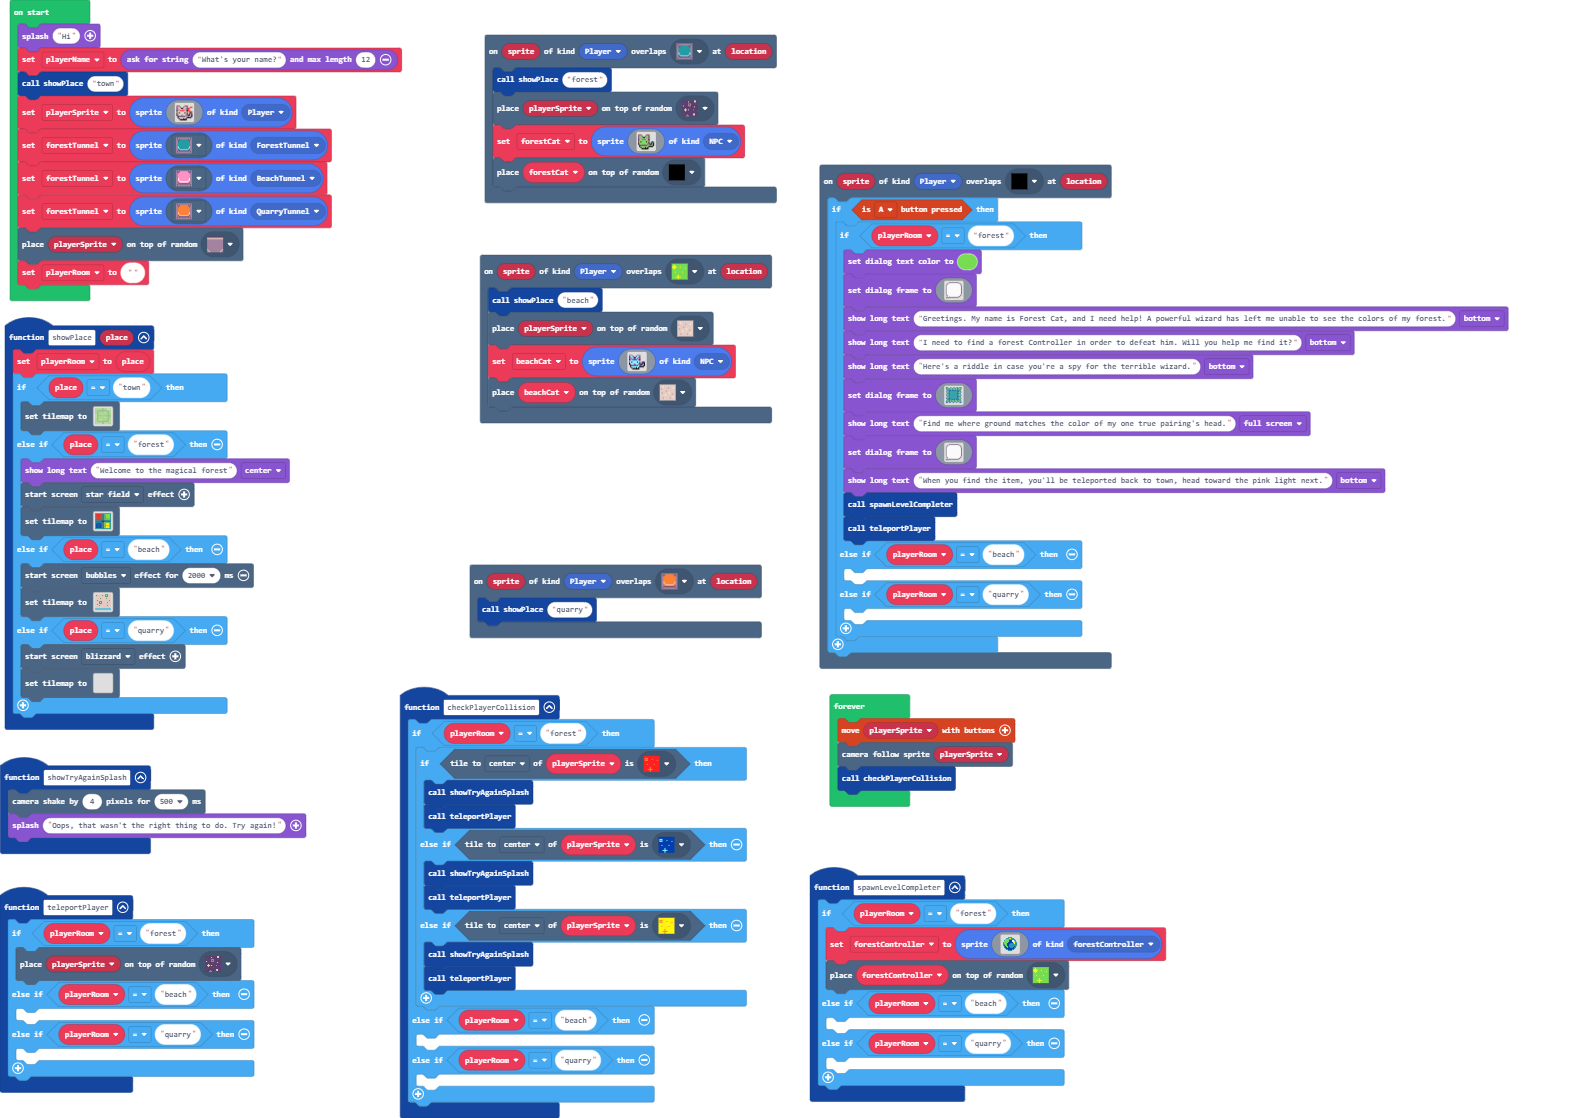
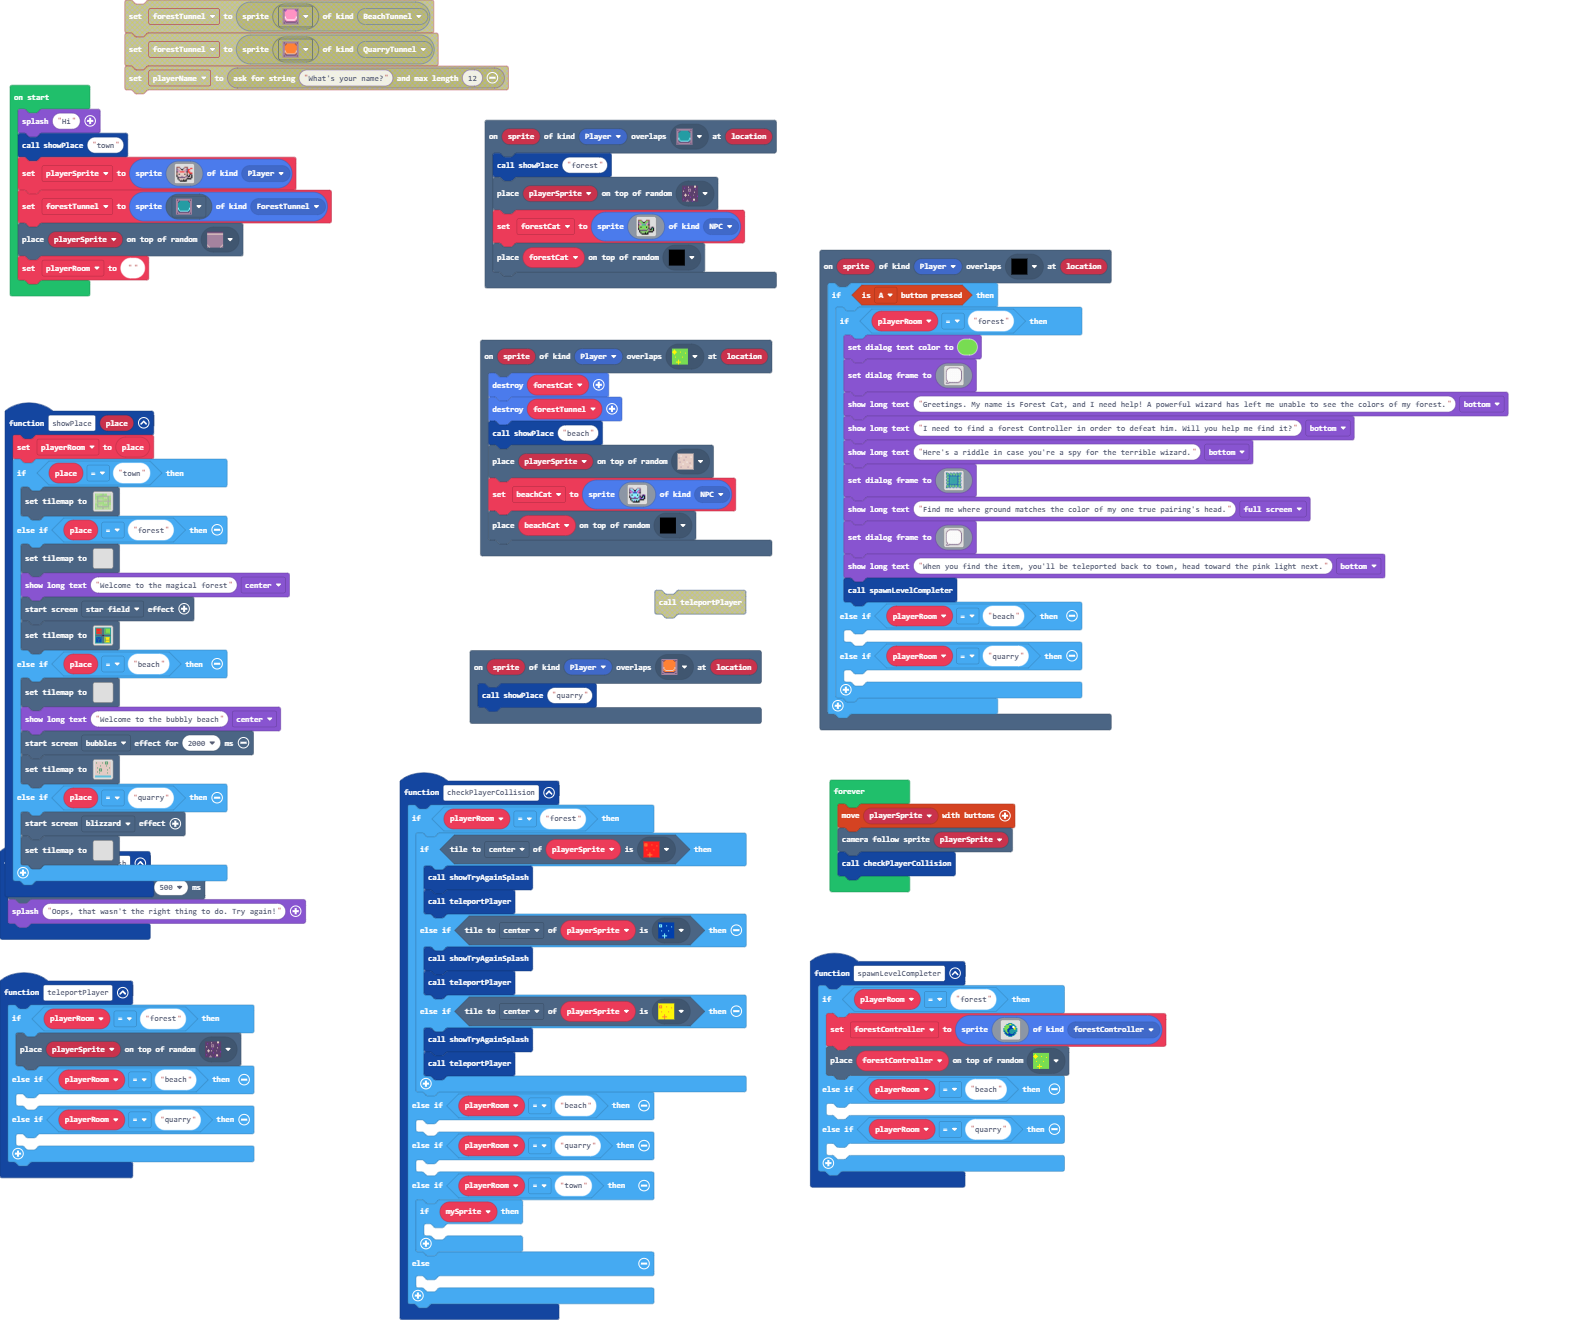
Took out name req, tried to clear beach before loading scene, still a bug there...

diff --git a/main.ts b/main.ts
@@ -102,7 +102,6 @@ scene.onOverlapTile(SpriteKind.Player, myTiles.tile2, function (sprite, location
                 `)
             game.showLongText("When you find the item, you'll be teleported back to town, head toward the pink light next.", DialogLayout.Bottom)
             spawnLevelCompleter()
-            teleportPlayer()
         } else if (playerRoom == "beach") {
         	
         } else if (playerRoom == "quarry") {
@@ -153,9 +152,18 @@ function checkPlayerCollision () {
     	
     } else if (playerRoom == "quarry") {
     	
+    } else if (playerRoom == "town") {
+        let mySprite = 0
+        if (mySprite) {
+        	
+        }
+    } else {
+    	
     }
 }
 scene.onOverlapTile(SpriteKind.Player, myTiles.tile9, function (sprite, location) {
+    forestCat.destroy()
+    forestTunnel.destroy()
     showPlace("beach")
     tiles.placeOnRandomTile(playerSprite, myTiles.tile10)
     beachCat = sprites.create(img`
@@ -174,7 +182,7 @@ scene.onOverlapTile(SpriteKind.Player, myTiles.tile9, function (sprite, location
         . . f 9 a 9 f 9 f . . . . . 
         . . . f f f f f f . . . . . 
         `, SpriteKind.NPC)
-    tiles.placeOnRandomTile(beachCat, myTiles.tile10)
+    tiles.placeOnRandomTile(beachCat, myTiles.tile2)
 })
 scene.onOverlapTile(SpriteKind.Player, sprites.dungeon.buttonTealDepressed, function (sprite, location) {
     showPlace("forest")
@@ -267,6 +275,24 @@ function showPlace (place: string) {
             ................................................
             `, [myTiles.transparency16,sprites.castle.tileGrass1,sprites.castle.tileGrass3,sprites.castle.tileGrass2,sprites.vehicle.roadIntersection3,sprites.vehicle.roadIntersection1,sprites.vehicle.roadTurn1,sprites.vehicle.roadIntersection2,sprites.vehicle.roadIntersection4,sprites.vehicle.roadTurn4,sprites.vehicle.roadTurn3,sprites.dungeon.buttonTealDepressed,sprites.dungeon.buttonPink,sprites.vehicle.roadTurn2,sprites.castle.shrub,sprites.castle.rock2,sprites.castle.saplingOak,sprites.builtin.coral1,sprites.castle.tilePath5,sprites.dungeon.buttonOrangeDepressed], TileScale.Sixteen))
     } else if (place == "forest") {
+        tiles.setTilemap(tiles.createTilemap(hex`1000100000000000000000000000000000000000000000000000000000000000000000000000000000000000000000000000000000000000000000000000000000000000000000000000000000000000000000000000000000000000000000000000000000000000000000000000000000000000000000000000000000000000000000000000000000000000000000000000000000000000000000000000000000000000000000000000000000000000000000000000000000000000000000000000000000000000000000000000000000000000000000000000000000000000000000000000000000000000000000000000000000000000000000000000000000000000`, img`
+            . . . . . . . . . . . . . . . . 
+            . . . . . . . . . . . . . . . . 
+            . . . . . . . . . . . . . . . . 
+            . . . . . . . . . . . . . . . . 
+            . . . . . . . . . . . . . . . . 
+            . . . . . . . . . . . . . . . . 
+            . . . . . . . . . . . . . . . . 
+            . . . . . . . . . . . . . . . . 
+            . . . . . . . . . . . . . . . . 
+            . . . . . . . . . . . . . . . . 
+            . . . . . . . . . . . . . . . . 
+            . . . . . . . . . . . . . . . . 
+            . . . . . . . . . . . . . . . . 
+            . . . . . . . . . . . . . . . . 
+            . . . . . . . . . . . . . . . . 
+            . . . . . . . . . . . . . . . . 
+            `, [myTiles.transparency16], TileScale.Sixteen))
         game.showLongText("Welcome to the magical forest", DialogLayout.Center)
         effects.starField.startScreenEffect()
[1 lines of base64/hex data omitted]
@@ -304,6 +330,25 @@ function showPlace (place: string) {
             ..............2..2..............
             `, [myTiles.transparency16,myTiles.tile2,sprites.castle.tileDarkGrass1,myTiles.tile4,sprites.castle.saplingPine,myTiles.tile5,myTiles.tile6,myTiles.tile7,myTiles.tile8,myTiles.tile3,sprites.builtin.forestTiles0,myTiles.tile9], TileScale.Sixteen))
     } else if (place == "beach") {
+        tiles.setTilemap(tiles.createTilemap(hex`1000100000000000000000000000000000000000000000000000000000000000000000000000000000000000000000000000000000000000000000000000000000000000000000000000000000000000000000000000000000000000000000000000000000000000000000000000000000000000000000000000000000000000000000000000000000000000000000000000000000000000000000000000000000000000000000000000000000000000000000000000000000000000000000000000000000000000000000000000000000000000000000000000000000000000000000000000000000000000000000000000000000000000000000000000000000000000`, img`
+            . . . . . . . . . . . . . . . . 
+            . . . . . . . . . . . . . . . . 
+            . . . . . . . . . . . . . . . . 
+            . . . . . . . . . . . . . . . . 
+            . . . . . . . . . . . . . . . . 
+            . . . . . . . . . . . . . . . . 
+            . . . . . . . . . . . . . . . . 
+            . . . . . . . . . . . . . . . . 
+            . . . . . . . . . . . . . . . . 
+            . . . . . . . . . . . . . . . . 
+            . . . . . . . . . . . . . . . . 
+            . . . . . . . . . . . . . . . . 
+            . . . . . . . . . . . . . . . . 
+            . . . . . . . . . . . . . . . . 
+            . . . . . . . . . . . . . . . . 
+            . . . . . . . . . . . . . . . . 
+            `, [myTiles.transparency16], TileScale.Sixteen))
+        game.showLongText("Welcome to the bubbly beach", DialogLayout.Center)
         effects.bubbles.startScreenEffect(2000)
         tiles.setTilemap(tiles.createTilemap(hex`1000100001010101010101010101030303010101010301010101010301010301030101010101010101010101010103030301010101010101010101010101010101010101010101010103010101010103010101010101010101010101010101010101010101010301010101010101010101010301010101010303030101010101010101010101010103010301010101010301010101010101030303010101010101010101010103010101010101010101010101010101010103010101010101010301010101010101010101010101010101010101010101010101010101010101010101010202020202020202020202020202020202020202020202020202020202020202`, img`
             . . . . . . . . . . . . . . . . 
@@ -345,13 +390,13 @@ function showPlace (place: string) {
             `, [myTiles.transparency16], TileScale.Sixteen))
     }
 }
-let forestCat: Sprite = null
 let beachCat: Sprite = null
+let forestCat: Sprite = null
 let forestController: Sprite = null
 let playerRoom = ""
+let forestTunnel: Sprite = null
 let playerSprite: Sprite = null
 game.splash("Hi")
-let playerName = game.askForString("What's your name?", 12)
 showPlace("town")
 playerSprite = sprites.create(img`
     . . . . . . . . . . . . . . 
@@ -369,9 +414,7 @@ playerSprite = sprites.create(img`
     . . f d b d f d f . . . . . 
     . . . f f f f f f . . . . . 
     `, SpriteKind.Player)
-let forestTunnel = sprites.create(sprites.dungeon.buttonTealDepressed, SpriteKind.ForestTunnel)
-forestTunnel = sprites.create(sprites.dungeon.buttonPink, SpriteKind.BeachTunnel)
-forestTunnel = sprites.create(sprites.dungeon.buttonOrangeDepressed, SpriteKind.QuarryTunnel)
+forestTunnel = sprites.create(sprites.dungeon.buttonTealDepressed, SpriteKind.ForestTunnel)
 tiles.placeOnRandomTile(playerSprite, sprites.vehicle.roadIntersection3)
 playerRoom = ""
 forever(function () {
